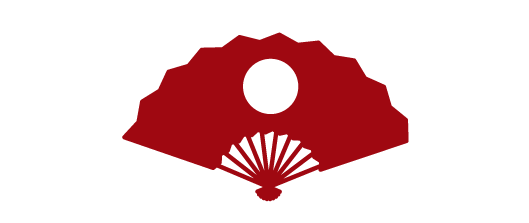
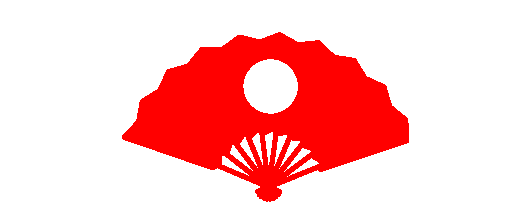
ajout sousdossier Home et modif des alt des images

Changed region(s): [[0.2117, 0.1345, 0.7864, 0.9148]]

diff --git a/public/assets/css/main.css b/public/assets/css/main.css
@@ -2061,6 +2061,7 @@ input.num-product::-webkit-inner-spin-button {
 .cl10 {color: #1d1d1d;}
 .cl11 {color: #f9ba48;}
 .cl12 {color: #ccc;}
+.cl13 {color: red;}
 
 /*//////////////////////////////////////////////////////////////////
 [
@@ -2661,9 +2662,12 @@ input.num-product::-webkit-inner-spin-button {
   z-index: -1;
   width: 100%;
   height: 100%;
-  border: 3px solid #ccc;
+  border: 3px solid red;
 }
+.how-bor2::before{
+  border: 3px solid black;
 
+}
 .how-bor1::before {
   bottom: -21px;
   left: -21px;
@@ -3010,5 +3014,14 @@ h3{
   font-family: Quando;
 }
 body{
-  font-size: 20px;
+  font-size: 16pt;
+}
+/*/////////////////////////////
+about
+ */
+span{
+  color: red;
+}
+.icons01{
+  width: 15vw;
 }

diff --git a/app/routing.php b/app/routing.php
@@ -17,4 +17,7 @@ $routes = [
         ['show', '/item/{id:\d+}', 'GET'], // action, url, method
         ['delete', '/item/delete/{id:\d+}', 'GET'], // action, url, method
     ],
+    'About' => [
+        ['index', '/about', 'GET'], //rajout du lien
+    ],
 ];
